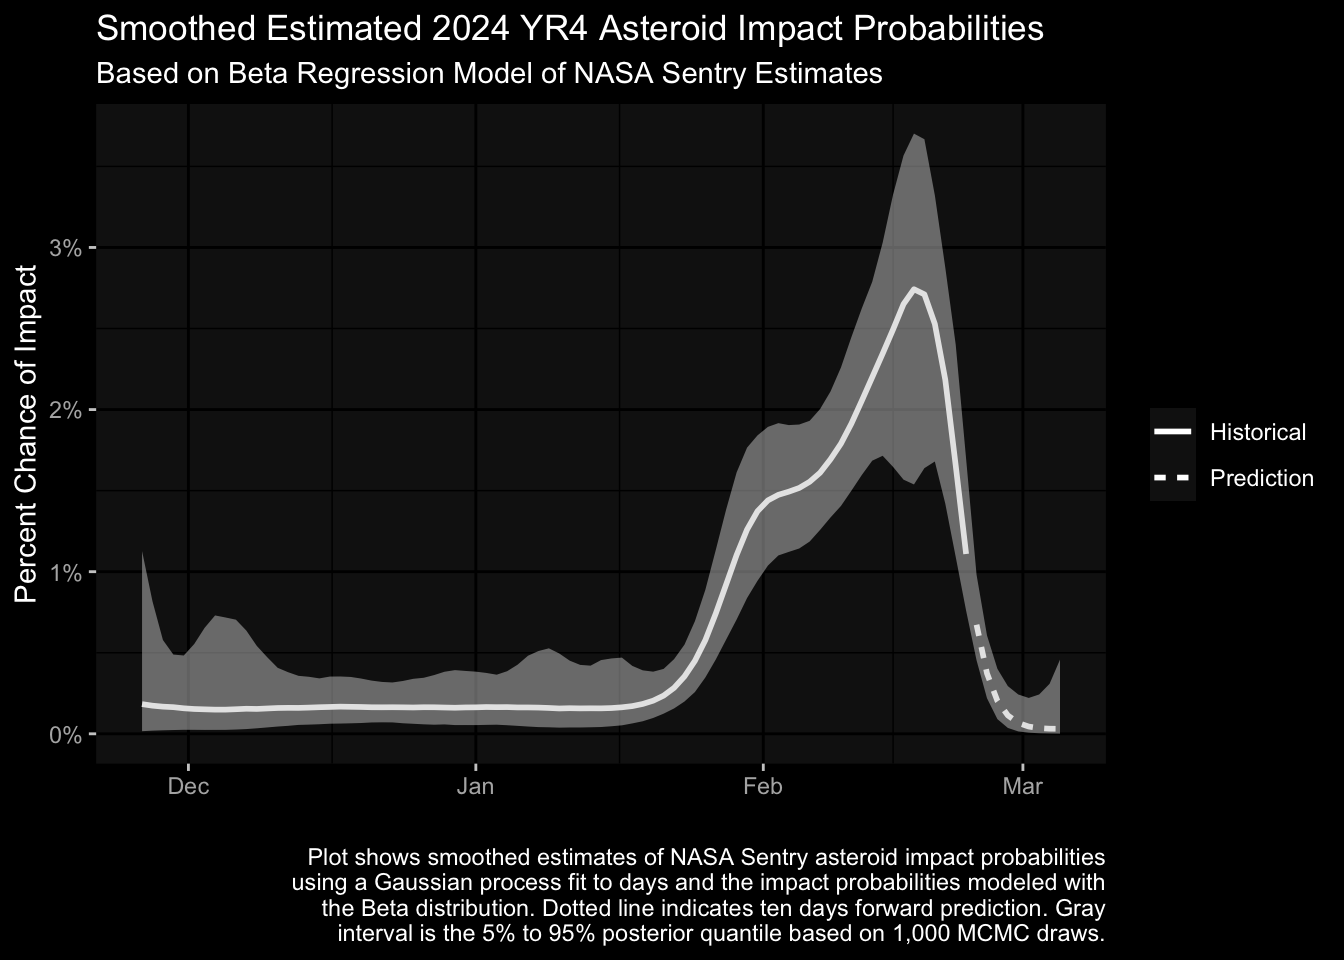
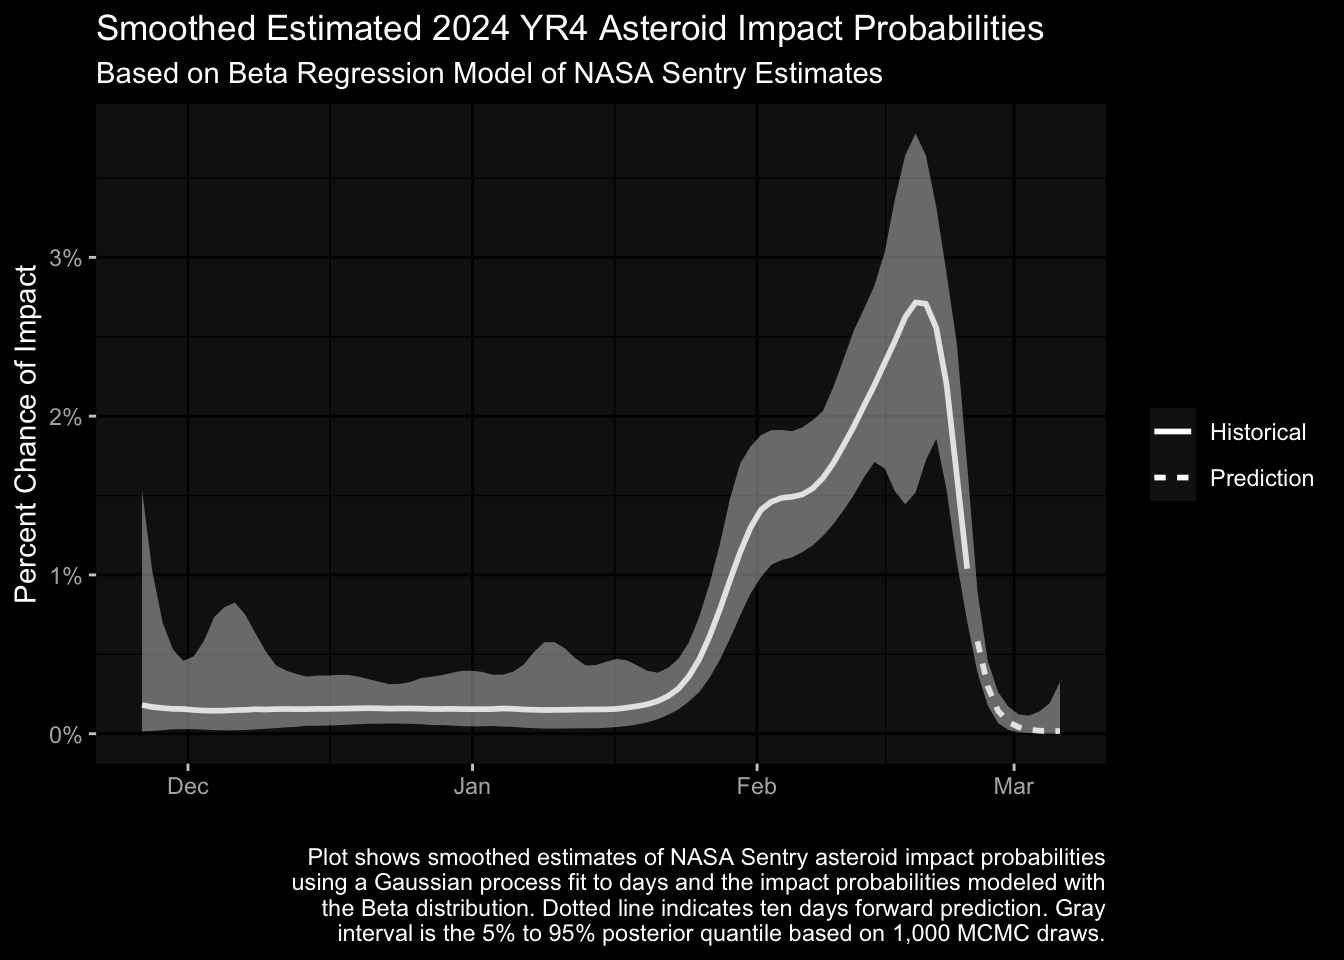
NASA Sentry smoother prediction 2025-02-24

diff --git a/_site/post/nasa_beta/index.html b/_site/post/nasa_beta/index.html
@@ -409,12 +409,12 @@ gtag('config', 'G-BHP1PJ9LEX', { 'anonymize_ip': true});
 <div class="cell-output cell-output-stdout">
 <pre><code>Running MCMC with 2 chains, at most 8 in parallel...
 
-Chain 1 finished in 97.9 seconds.
-Chain 2 finished in 107.0 seconds.
+Chain 1 finished in 45.2 seconds.
+Chain 2 finished in 49.6 seconds.
 
 Both chains finished successfully.
-Mean chain execution time: 102.4 seconds.
-Total execution time: 107.6 seconds.</code></pre>
+Mean chain execution time: 47.4 seconds.
+Total execution time: 49.7 seconds.</code></pre>
 </div>
 <details class="code-fold">
 <summary>Show the code</summary>
@@ -562,7 +562,7 @@ Total execution time: 107.6 seconds.</code></pre>
 </section>
 <section id="current-estimates" class="level2">
 <h2 class="anchored" data-anchor-id="current-estimates">Current Estimates</h2>
-<p>As mentioned above, NASA has released more estimates since February 18th. In this section, I re-fit the model and predict for up to 10 days head using all of their Sentry data going back to November 2024. I will keep updating this section on a daily basis as more data comes in. The estimates below are current as of <strong>Sunday, February 23, 2025</strong>.</p>
+<p>As mentioned above, NASA has released more estimates since February 18th. In this section, I re-fit the model and predict for up to 10 days head using all of their Sentry data going back to November 2024. I will keep updating this section on a daily basis as more data comes in. The estimates below are current as of <strong>Monday, February 24, 2025</strong>.</p>
 <p>This code fits the model to the current data:</p>
 <div class="cell" data-layout-align="center">
 <details class="code-fold">
@@ -602,12 +602,12 @@ Total execution time: 107.6 seconds.</code></pre>
 <div class="cell-output cell-output-stdout">
 <pre><code>Running MCMC with 2 chains, at most 8 in parallel...
 
-Chain 1 finished in 53.4 seconds.
-Chain 2 finished in 58.7 seconds.
+Chain 2 finished in 34.9 seconds.
+Chain 1 finished in 36.9 seconds.
 
 Both chains finished successfully.
-Mean chain execution time: 56.1 seconds.
-Total execution time: 58.9 seconds.</code></pre>
+Mean chain execution time: 35.9 seconds.
+Total execution time: 37.0 seconds.</code></pre>
 </div>
 </div>
 <p>And here are the model predictions with 10 days ahead plus fitted estimates to all previous NASA Sentry predictions:</p>
